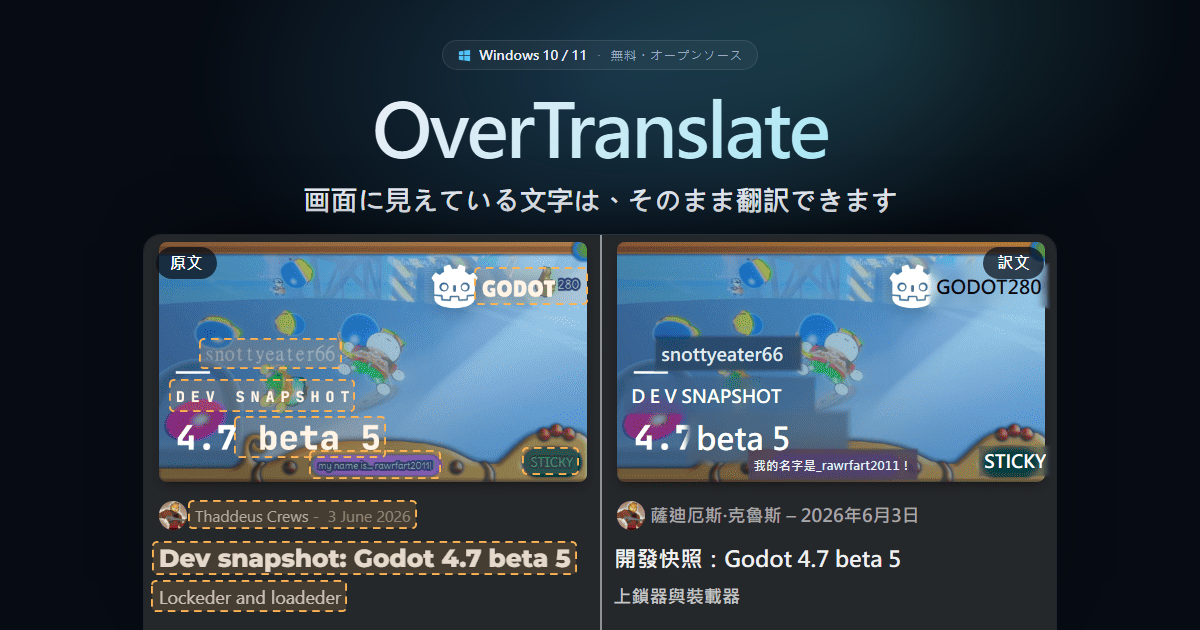
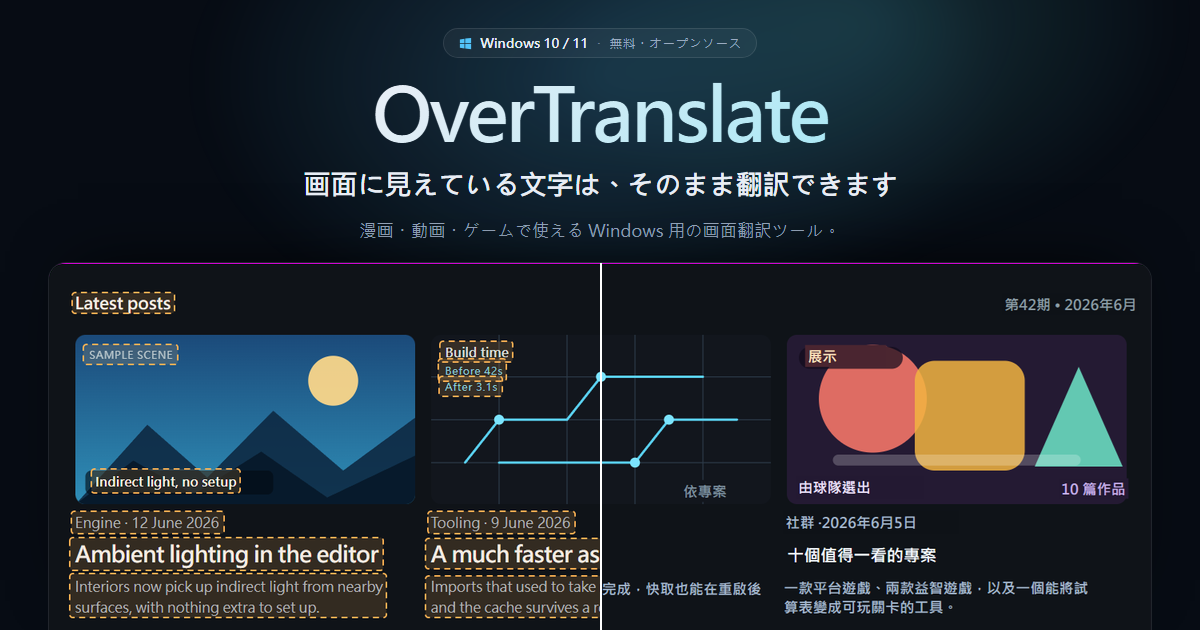
feat: 縮圖換用實拍對照並補上簡介那行

diff --git a/tools/build-og.py b/tools/build-og.py
@@ -12,8 +12,8 @@
 原始畫面：用瀏覽器開 tools/og-source.html，縮放 100%，
 截一張原文、再用 OverTranslate 翻譯後截一張，存成
 
-    docs/images/og-src-before.png
-    docs/images/og-src-after.png
+    docs/images/og/og-src-before.png
+    docs/images/og/og-src-after.png
 
 整個視窗截沒關係，這支會靠畫面裡那圈桃紅色的框自己定位並裁掉框本身。
 
@@ -32,8 +32,8 @@ from PIL import Image
 
 ROOT = os.path.dirname(os.path.dirname(os.path.abspath(__file__)))
 OUT_DIR = os.path.join(ROOT, 'docs', 'images', 'og')
-BEFORE = os.path.join(ROOT, 'docs', 'images', 'og-src-before.png')
-AFTER = os.path.join(ROOT, 'docs', 'images', 'og-src-after.png')
+BEFORE = os.path.join(OUT_DIR, 'og-src-before.png')
+AFTER = os.path.join(OUT_DIR, 'og-src-after.png')
 
 EDGE = [
     r'C:\Program Files (x86)\Microsoft\Edge\Application\msedge.exe',
@@ -54,8 +54,19 @@ LANGS = [
     ('ko',      'og_ko.png',      'docs/ko/index.html',      KR),
 ]
 
-# og-source.html 裡那塊畫布的尺寸，也就是縮圖上對照區的尺寸
-SHOT_W, SHOT_H = 1104, 384
+# 縮圖只放得下一行，所以取 hero.lede 的第一句。改了首頁那句記得一起改。
+LEDE = {
+    'zh-TW':   u'適用於漫畫、影音與遊戲的 Windows 螢幕翻譯工具。',
+    'en':      u'A Windows screen translator for comics, video and games.',
+    'zh-Hans': u'适用于漫画、影音与游戏的 Windows 屏幕翻译工具。',
+    'ja':      u'漫画・動画・ゲームで使える Windows 用の画面翻訳ツール。',
+    'ko':      u'만화·영상·게임에 쓸 수 있는 Windows 화면 번역 도구.',
+}
+
+# og-source.html 裡那塊畫布的尺寸
+CANVAS_W, CANVAS_H = 1104, 384
+# 縮圖上實際露出多少。底部那截是畫布的留白，切掉不會少看到東西
+SHOT_W, SHOT_H = 1104, 368
 
 TEMPLATE = u'''<!doctype html>
 <meta charset="utf-8">
@@ -74,7 +85,7 @@ TEMPLATE = u'''<!doctype html>
       radial-gradient(48% 50% at 50% 50%, rgba(82, 196, 250, 0.22), transparent 70%),
       radial-gradient(38% 42% at 72% 42%, rgba(98, 239, 246, 0.16), transparent 70%);
   }}
-  .stack {{ position: relative; padding-top: 40px; text-align: center; }}
+  .stack {{ position: relative; padding-top: 28px; text-align: center; }}
   .eyebrow {{
     display: inline-flex; align-items: center; gap: 9px;
     padding: 6px 14px; border: 1px solid rgba(255, 255, 255, 0.10);
@@ -86,7 +97,7 @@ TEMPLATE = u'''<!doctype html>
   .eyebrow .dot {{ color: #6d7f95; }}
   .name {{
     /* 網站 .hero__name 在 1200px 寬時的實際值，不要自己再調 */
-    margin-top: 22px; font-size: 73.6px; line-height: 1.04; font-weight: 700;
+    margin-top: 18px; font-size: 73.6px; line-height: 1.04; font-weight: 700;
     letter-spacing: -0.035em;
     background: linear-gradient(140deg, #e9eef6 30%, #7fe4f4);
     -webkit-background-clip: text; background-clip: text; color: transparent;
@@ -96,6 +107,10 @@ TEMPLATE = u'''<!doctype html>
     margin-top: 14px; font-size: 27.52px; line-height: 1.32; font-weight: 600;
     letter-spacing: -0.018em; color: #e9eef6;
   }}
+  .lede {{
+    /* 網站 .hero__lede 在 1200px 寬時的實際值 */
+    margin-top: 12px; font-size: 17.28px; line-height: 1.75; color: #9aabc0;
+  }}
   .shot {{
     position: absolute; left: 50%; translate: -50% 0; bottom: 0;
     width: {shot_w}px; height: {shot_h}px;
@@ -104,13 +119,6 @@ TEMPLATE = u'''<!doctype html>
     box-shadow: 0 -20px 60px -30px rgba(0, 0, 0, 0.9);
   }}
   .shot img {{ display: block; width: {shot_w}px; height: {shot_h}px; }}
-  .tag {{
-    position: absolute; top: 12px; padding: 6px 14px; border-radius: 999px;
-    background: rgba(8, 13, 22, 0.72); color: #fff;
-    font-size: 16px; font-weight: 620; letter-spacing: 0.02em;
-  }}
-  .tag--before {{ left: 12px; }}
-  .tag--after {{ right: 12px; }}
 </style>
 <div class="glow"></div>
 <div class="stack">
@@ -124,11 +132,10 @@ TEMPLATE = u'''<!doctype html>
   </p>
   <h1 class="name">OverTranslate</h1>
   <p class="claim">{claim}</p>
+  <p class="lede">{lede}</p>
 </div>
 <div class="shot">
   <img src="file:///{shot}" alt="">
-  <span class="tag tag--before">{tag_before}</span>
-  <span class="tag tag--after">{tag_after}</span>
 </div>
 '''
 
@@ -160,13 +167,13 @@ def canvas_of(path):
         raise SystemExit('%s 裡找不到桃紅色的定位框，是不是截到別的畫面了？'
                          % os.path.basename(path))
 
-    scale = (max(xs) - min(xs) + 1) / float(SHOT_W + 4)   # 框本身左右各 2px
+    scale = (max(xs) - min(xs) + 1) / float(CANVAS_W + 4)   # 框本身左右各 2px
     edge = int(round(2 * scale))
     box = (min(xs) + edge, min(ys) + edge,
            max(xs) + 1 - edge, max(ys) + 1 - edge)
     out = im.crop(box)
-    if out.size != (SHOT_W, SHOT_H):
-        out = out.resize((SHOT_W, SHOT_H), Image.LANCZOS)
+    if out.size != (CANVAS_W, CANVAS_H):
+        out = out.resize((CANVAS_W, CANVAS_H), Image.LANCZOS)
     return out
 
 
@@ -180,14 +187,15 @@ def compose_shot():
     before = canvas_of(BEFORE)
     after = canvas_of(AFTER)
 
-    mid = SHOT_W // 2
+    mid = CANVAS_W // 2
     shot = before.copy()
-    shot.paste(after.crop((mid, 0, SHOT_W, SHOT_H)), (mid, 0))
+    shot.paste(after.crop((mid, 0, CANVAS_W, CANVAS_H)), (mid, 0))
 
     px = shot.load()
     for x in range(mid - 1, mid + 1):
-        for y in range(SHOT_H):
+        for y in range(CANVAS_H):
             px[x, y] = (255, 255, 255)
+    shot = shot.crop((0, 0, SHOT_W, SHOT_H))
 
     fd, tmp = tempfile.mkstemp(suffix='.png')
     os.close(fd)
@@ -198,7 +206,7 @@ def compose_shot():
 def strings(page):
     """把首頁已經翻譯好的字撈出來，不要在這裡再維護一份。"""
     html = io.open(os.path.join(ROOT, page), encoding='utf-8').read()
-    want = ('hero.free', 'hero.claim', 'compare.before', 'compare.after')
+    want = ('hero.free', 'hero.claim')
     out = {}
     for key in want:
         m = re.search(r'data-i18n="%s">([^<]*)<' % re.escape(key), html)
@@ -219,7 +227,7 @@ def main():
             s = strings(page)
             html = TEMPLATE.format(
                 font=font, free=s['hero.free'], claim=s['hero.claim'],
-                tag_before=s['compare.before'], tag_after=s['compare.after'],
+                lede=LEDE[lang],
                 shot=shot.replace('\\', '/'), shot_w=SHOT_W, shot_h=SHOT_H)
 
             fd, tmp = tempfile.mkstemp(suffix='.html')

diff --git a/docs/site/README.md b/docs/site/README.md
@@ -32,27 +32,33 @@ python tools/build-site.py
 python tools/build-og.py
 ```
 
-`docs/images/og/og*.png`（1200x630）是分享連結時各平台抓的那張圖，由 `tools/build-og.py`
-用 Edge 無頭渲染出來。版面為 1.91:1 重排，但標題與標語的字級是直接抄 `styles.css`
-在 1200px 寬時的實際值，跟首頁看起來才是同一套。標語和「原文／譯文」的字是從各語言的
-`index.html` 撈的，不另外維護一份。
+`docs/images/og/og*.png`（1200x630）是分享連結時各平台抓的那張圖。版面為 1.91:1 重排，
+但標題、標語、簡介三行的字級是直接抄 `styles.css` 在 1200px 寬時的實際值，
+跟首頁看起來才是同一套 —— **不要在 `build-og.py` 裡自己調字級**。
 
-下半部的對照是**一張畫面切一半**：左半未翻譯、右半翻譯後，中間一條白線，
-跟首頁的比較滑桿定格在中間是一樣的意思。原始畫面是 `tools/og-source.html`：
+下半部是**一張畫面切一半**：左半未翻譯、右半翻譯後，中間一條白線，
+等於把首頁的比較滑桿定格在正中間。原始畫面是 `tools/og-source.html`，
+刻意排成三欄讓分割線正好切過中間那張卡片，圖片裡也放了嵌入式小字 ——
+那才是 OCR 真正要處理的東西。
 
-1. 瀏覽器開它，縮放 100%
-2. 截一張存成 `docs/images/og-src-before.png`
-3. 用 OverTranslate 翻譯那塊畫面，再截一張存成 `docs/images/og-src-after.png`
+要重拍那張對照時：
+
+1. 瀏覽器開 `tools/og-source.html`
+2. 截一張存成 `docs/images/og/og-src-before.png`
+3. 用 OverTranslate 翻譯那塊畫面，再截一張存成 `docs/images/og/og-src-after.png`
 4. 跑 `python tools/build-og.py`
 
 整個視窗截就好，產生器會靠畫面上那圈桃紅色的框自己定位、裁掉框本身，
 螢幕縮放不是 100% 也沒關係，它會縮回 1104x384。
 
-那個頁面刻意排成三欄、分割線正好切過中間那張卡片，中間那條線才有意義；
-縮圖裡也故意放了嵌在圖片中的小字，那才是 OCR 真正要處理的東西。
+| 縮圖上的字 | 來源 |
+|------------|------|
+| 標語 `hero.claim`、`hero.free` | 各語言的 `index.html`，自動撈 |
+| 簡介那一行 | `build-og.py` 的 `LEDE`，是 `hero.lede` 的第一句 |
 
-**改了 `hero.claim`、`hero.free` 或 `compare.before/after` 之後要重跑**，否則縮圖上的字
-會停在舊版。這支需要本機有 Edge 與 Pillow，CI 不會跑它，圖是 commit 進版控的。
+**改了 `hero.claim`、`hero.free` 或 `hero.lede` 之後要重跑**，其中 `hero.lede`
+還要順手改 `LEDE`，否則縮圖上的字會停在舊版。這支需要本機有 Edge 與 Pillow，
+CI 不會跑它，圖是 commit 進版控的。
 
 ## 翻譯放哪裡
 
